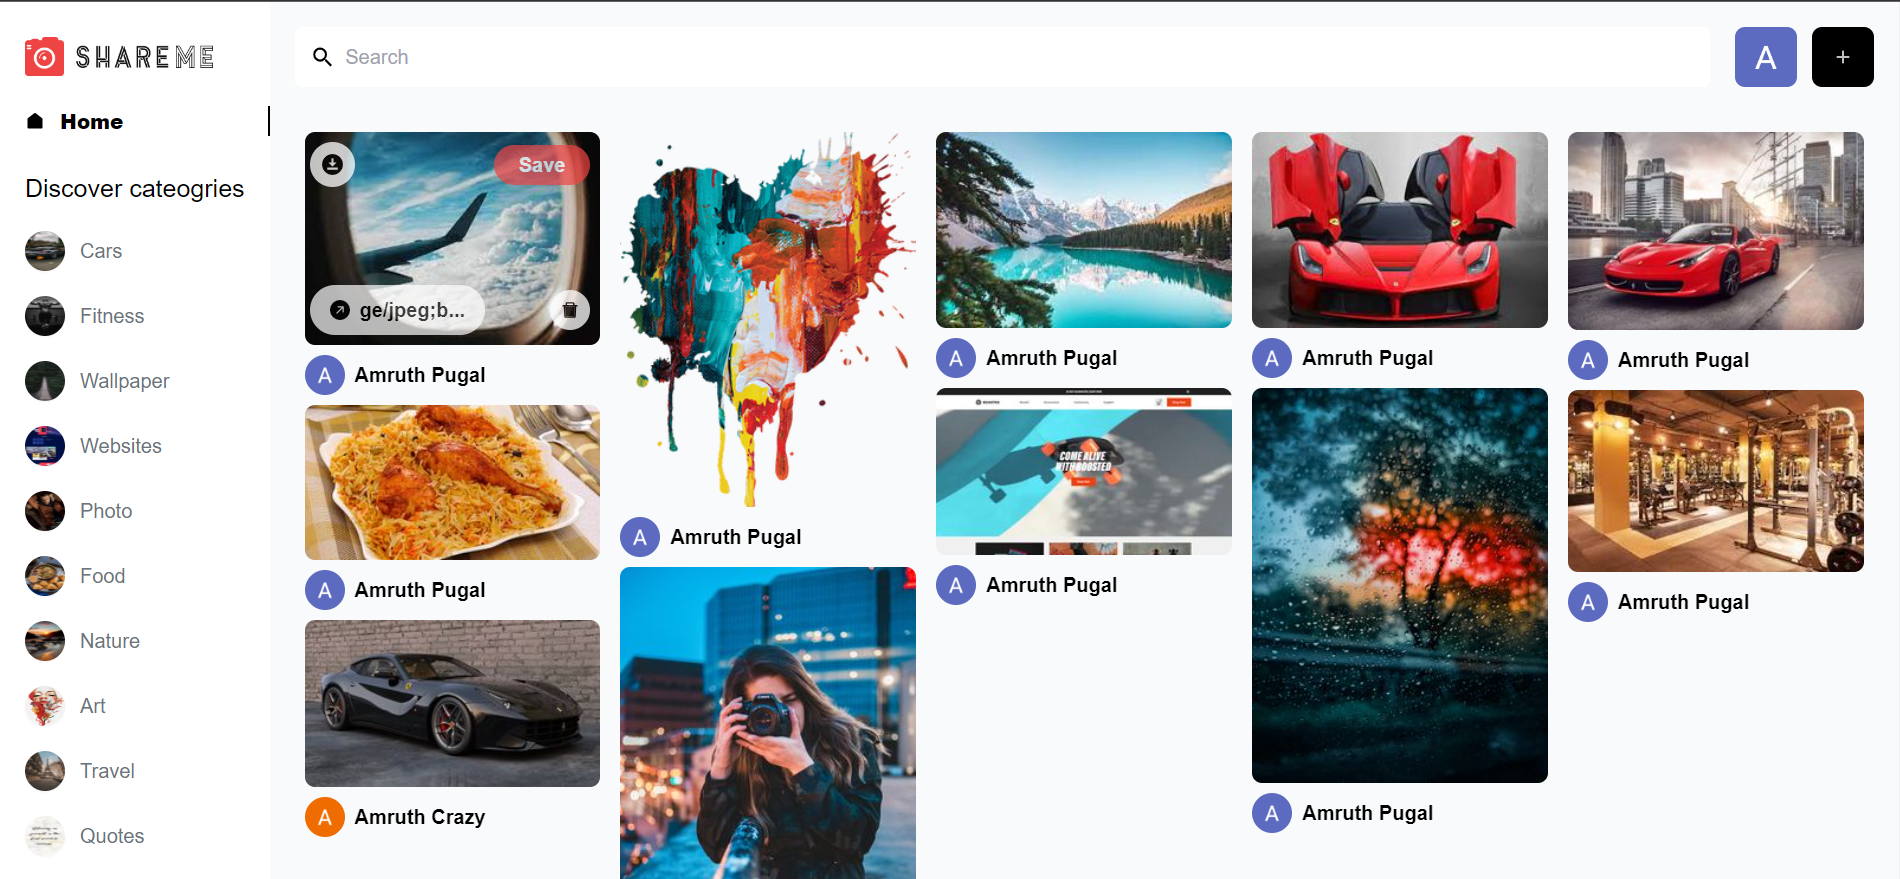
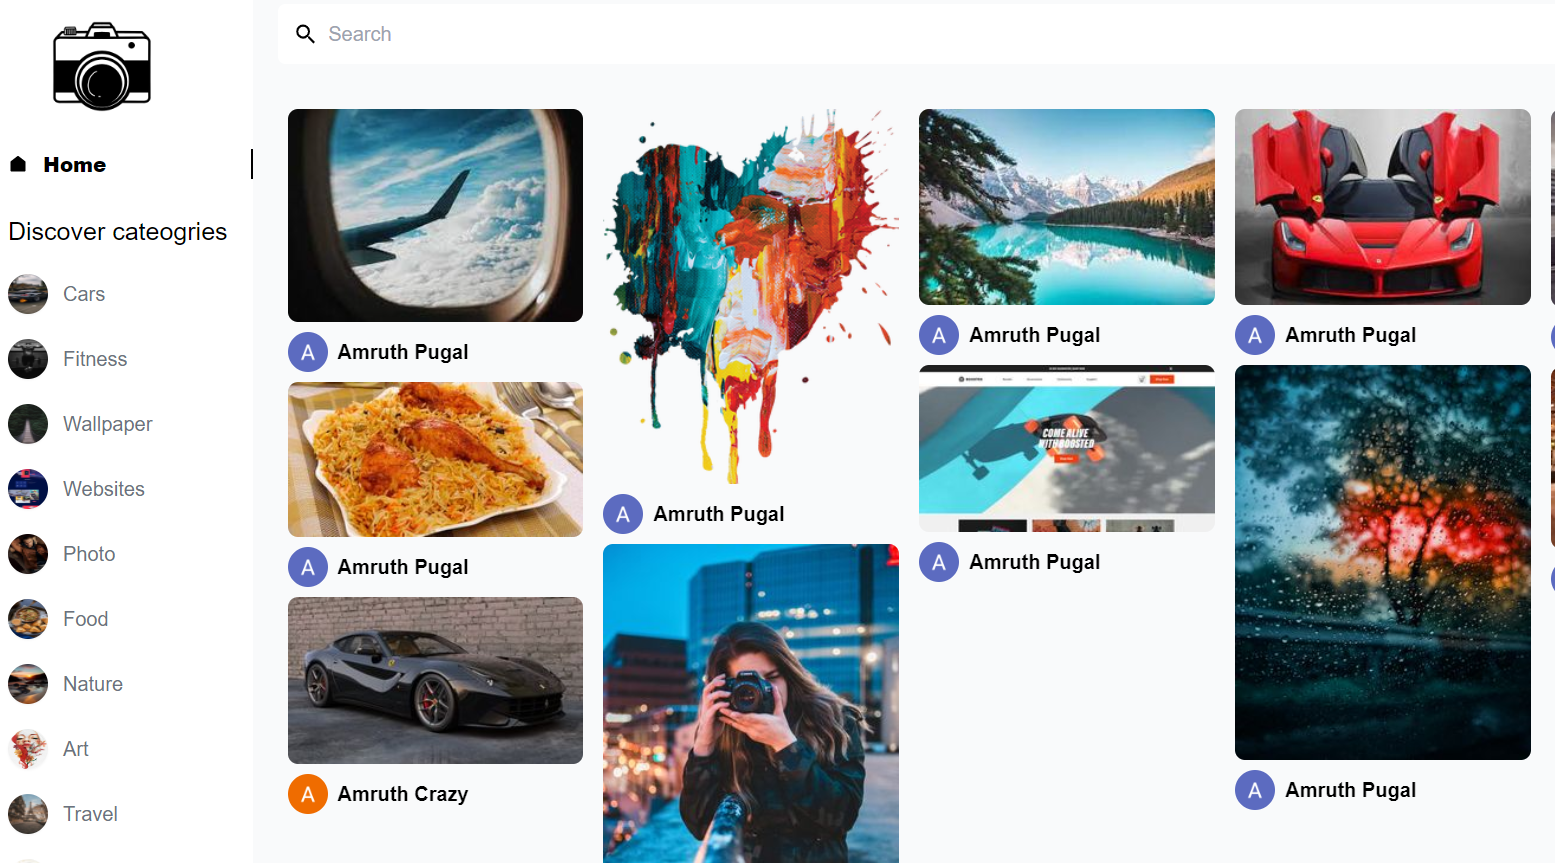
modified

diff --git a/sharepic_frontend/src/components/SideBar.jsx b/sharepic_frontend/src/components/SideBar.jsx
@@ -2,7 +2,7 @@ import React from 'react';
 import { NavLink, Link } from 'react-router-dom';
 import { RiHomeFill } from 'react-icons/ri';
 import { IoIosArrowForward } from 'react-icons/io';
-import logo from '../assets/logo.png';
+import logo from '../assets/cam_logo.png';
 import { categories } from '../utils/data';
 
 const isNotActiveStyle = 'flex items-center px-5 gap-3 text-gray-500 hover:text-black transition-all duration-200 ease-in-out capitalize';

diff --git a/sharepic_frontend/src/components/Login.jsx b/sharepic_frontend/src/components/Login.jsx
@@ -3,7 +3,7 @@ import {GoogleLogin} from '@react-oauth/google';
 import { useNavigate } from 'react-router-dom';
 import { FcGoogle } from 'react-icons/fc';
 import shareVideo from '../assets/share.mp4';
-import logo from '../assets/logowhite.png';
+import logo from '../assets/cam_logo.png';
 import jwt_decode from "jwt-decode";
 import {client} from "../client"
 

diff --git a/sharepic_frontend/src/container/Home.jsx b/sharepic_frontend/src/container/Home.jsx
@@ -7,7 +7,7 @@ import { Sidebar, UserProfile } from '../components';
 import { userQuery } from '../utils/data';
 import { client } from '../client';
 import Pins from './Pins';
-import logo from '../assets/logo.png';
+import logo from '../assets/cam_logo.png';
 
 const Home = () => {
   const [toggleSidebar, setToggleSidebar] = useState(false);

diff --git a/README.md b/README.md
@@ -1,7 +1,7 @@
 # SharePic
 SharePic is an image sharing social media platform.
 
-## Topics Covered
+## Technologies Used 
 - ReactJS
 - Redux
 - Tailwind CSS
@@ -10,12 +10,15 @@ SharePic is an image sharing social media platform.
 - Sanity CMS
 
 
-### Screenshots
+###  Screenshots
 
+Dashboard
 ![Dashboard](https://github.com/amr178/SharePic/blob/master/dashboard.PNG)
 
+Creating Pins
 ![Creating Pin](https://github.com/amr178/SharePic/blob/master/pin.PNG)
 
+Categories
 ![Categories](https://github.com/amr178/SharePic/blob/master/categories.PNG)
 
 
